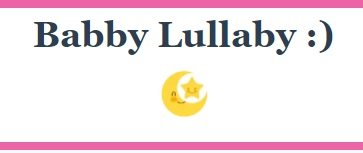
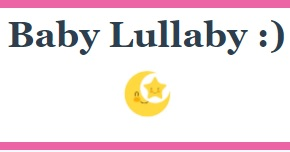
up

diff --git a/+++MY Personal PROJECT/TailwindVue_musicplayer/src/views/Home.vue b/+++MY Personal PROJECT/TailwindVue_musicplayer/src/views/Home.vue
@@ -2,7 +2,7 @@
   <!-- Header -->
   <div class="border-solid border-8 border-pink-500 ">
     <p class="font-serif text-4xl font-extrabold">
-      Babby Lullaby :)
+      Baby Lullaby :)
     </p>
     <img
       class="object-scale-down h-20 w-full relative pb-4"
